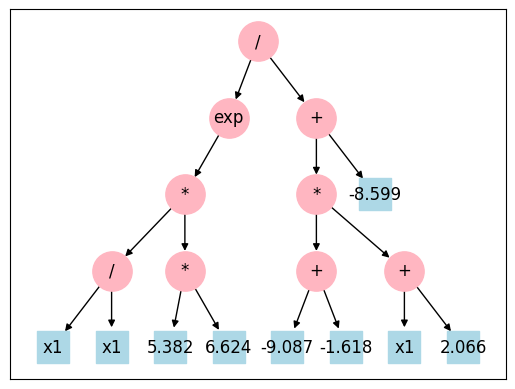
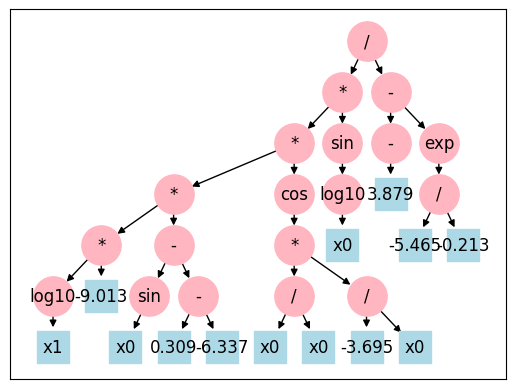
final commit

diff --git a/s333106.py b/s333106.py
@@ -1,30 +1,92 @@
 import numpy as np
+import math
 
-def f0(x: np.ndarray) -> np.ndarray:
-    return x[0] + np.sin(x[1]) / 5
+def protected_exp(x):
+    # Overflow condition
+    if x > 700:
+        return math.exp(700)  
+    # Underflow condition
+    elif x < -700:
+        return math.exp(-700)
+    else:
+        return math.exp(x)
 
+def protected_div(a, b):
+    if abs(b) < 1e-12:
+        return 1.0
+    return a / b
+
+def protected_sqrt(x):
+    if x < 0:
+        return np.sqrt(abs(x))
+    return np.sqrt(x)
+
+def protected_log10(x):
+    if x <= 0:
+        return 0.0
+    return np.log10(x)
 
 def f1(x: np.ndarray) -> np.ndarray:
     return np.sin(x[0])
 
 def f2(x: np.ndarray) -> np.ndarray:
-    (np.exp(9.823) * np.exp((-5.612 / x[0])))
+    return (
+        (
+            protected_exp((x[0] * 4.865) * protected_exp(x[1])) * protected_div((-1.527 - 9.650) * (x[2] + x[1]), x[2]) * np.abs(5.823 + x[0])
+        ) -
+        (protected_div((x[2] - (-2.865)),(-9.485 + 5.293)))
+    )
 
+def f3(x: np.ndarray) -> np.ndarray:
+    return (
+        (x[0] * x[0]) + 
+        (x[2] * -4.816) + 
+        (x[2] - (-3.753)) + 
+        (x[0] * x[0]) + 
+        (protected_log10((2.369 + x[1]) - x[1]) + (x[1] * x[1] * -x[1]))
+    )
 
-def f3(x: np.ndarray) -> np.ndarray: ...
+def f4(x: np.ndarray) -> np.ndarray: 
+    return (
+        (np.cos(x[1]) * 6.830) + 
+        protected_sqrt(protected_sqrt((-9.009 + x[0]) + np.abs(x[1]))) + 
+        protected_sqrt(protected_sqrt(-8.538))
+    )
 
+def f5(x: np.ndarray) -> np.ndarray:
+    return (
+        protected_div((
+            (protected_log10(x[1]) * -9.013) * 
+            ((0.309 - (-6.337)) - np.sin(x[0])) * 
+            np.cos(protected_div(x[0],x[0]) * protected_div(-3.695,x[0]))
+        ), (protected_exp(protected_div(-5.465,-0.213)) - (-3.879)))
+    )
 
-def f4(x: np.ndarray) -> np.ndarray: ...
+def f6(x: np.ndarray) -> np.ndarray:
+    return (
+        ((1.396 * x[1]) + protected_div(x[0],-1.418) - protected_div(x[1],-3.781)) -
+        (
+            protected_exp(-9.845) * (6.017 - x[0]) * 
+            ((x[1] - x[0]) * ((-4.666 + x[0]) + (3.425 * -1.858))) * 
+            (8.596 - x[0])
+        )
+    )
 
+def f7(x: np.ndarray) -> np.ndarray:
+    return (
+        (np.abs(4.439) * protected_exp(x[1] * x[0])) + 
+        (
+            ((np.abs(x[0]) * np.abs(x[1])) + (np.abs(x[0]) * np.sin(x[1]))) *
+            np.cos((x[1] - x[0]) * (x[0] + -7.844)) *
+            protected_exp(x[1] * x[0])
+        )
+    )
 
-def f5(x: np.ndarray) -> np.ndarray: ...
-
-
-def f6(x: np.ndarray) -> np.ndarray: ...
-
-
-def f7(x: np.ndarray) -> np.ndarray: ...
-
-
-def f8(x: np.ndarray) -> np.ndarray: ...
-
+def f8(x: np.ndarray) -> np.ndarray:
+    return (
+        np.abs(
+            x[5] * 
+            (9.915 * x[5]) * 
+            (protected_div(x[4],x[4]) * (x[5] + x[5]))
+        ) * x[5]
+    )

diff --git a/report.md b/report.md
@@ -479,14 +479,14 @@ The `enforce_max_depth(node, max_depth, current_depth)` function limits the maxi
 ### Genetic Programming Algorithm
 
 The function `run_genetic_programming(x, y, population_size, generations, elite_size, max_depth)` implements a Genetic Programming (GP) algorithm to find the best symbolic expression that approximates the data (`x, y`). The process occurs in the following phases, repeated for a number equal to the variable `generations`:
-1- Initialization of the population with the Ramped Half-and-Half method, which creates half of the population with trees of depth 2 and half of the population with trees of depth 4;
-2- calculation of the fitness function for each tree and sorting (`fitness(individual, x, y)`);
-3- selection of the best individuals (in a number defined by elite_size) and saving the best tree of the generation in hall_of_fame, which keeps track of the best trees of each generation;
-4- selection of k random parents and the two individuals with the lowest MSE are chosen (`tournament_selection(population, x, y, k)`);
-5- crossover between the two parents (`crossover(parent1, parent2)`);
-6- mutation of the individual (`mutate(individual, mutation_rate)`);
-7- depth control (`enforce_max_depth(node, max_depth, current_depth)`);
-8- adding the generated offspring to the initial population;
+- 1.Initialization of the population with the Ramped Half-and-Half method, which creates half of the population with trees of depth 2 and half of the population with trees of depth 4;
+- 2.calculation of the fitness function for each tree and sorting (`fitness(individual, x, y)`);
+- 3.selection of the best individuals (in a number defined by elite_size) and saving the best tree of the generation in hall_of_fame, which keeps track of the best trees of each generation;
+- 4.selection of k random parents and the two individuals with the lowest MSE are chosen (`tournament_selection(population, x, y, k)`);
+- 5.crossover between the two parents (`crossover(parent1, parent2)`);
+- 6.mutation of the individual (`mutate(individual, mutation_rate)`);
+- 7.depth control (`enforce_max_depth(node, max_depth, current_depth)`);
+- 8.adding the generated offspring to the initial population;
 
 ![lab4_12](report_images/lab4_12.png)
 
@@ -632,7 +632,7 @@ MSE = 839853.2588713064
 
 #### Problem 1 Test:
 
-MSE = 0.00000
+MSE = 7.125940794232773e-34
 
 Best expression found = sin(x0)
 
@@ -664,11 +664,11 @@ MSE = 0.01973
 
 #### Problem 5 Test:
 
-Best expression found = ((-8.599 + ((-9.087 + -1.618) * (x1 + 2.066))) / exp(((x1 / x1) * (5.382 * 6.624))))
+Best expression found = (((((log10(x1) * -9.013) * ((0.309 - -6.337) - sin(x0))) * cos(((x0 / x0) * (-3.695 / x0)))) * sin(log10(x0))) / (exp((-5.465 / -0.213)) - -(3.879)))
+
+MSE = 5.417638189152223e-18
 
 ![Test 5 Pop 10000 Gen 100 Depth 6](report_images/test5_pop10000_gen100_depth6_1.png)
-
-MSE = 0.00000
 
 #### Problem 6 Test:
 
@@ -694,15 +694,35 @@ MSE = 1272443.2040473882
 
 ![Test 8 Pop 10000 Gen 100 Depth 6](report_images/test8_pop10000_gen100_depth6.png)
 
+### Expressions found
+
+![Expression found 1](report_images/lab4_15.png)
+
+![Expression found 2](report_images/lab4_16.png)
+
 ### Final Result Summary
 
 | Problem | Best_MSE | Expression Found |
 |---------|----------|------------------|
-| 1       | 0.00000 | sin(x0) |
+| 1       | 7.125940794232773e-34 | sin(x0) |
 | 2       | 10000000000.00000 | (((exp(((x0 * 4.865) * exp(x1))) * (((-1.527 + -9.650) * (x2 + x1)) / x2)) * abs((5.823 + x0))) - ((x2 - -2.865) / (-9.485 + 5.293))) |
 | 3       | 0.82978 | ((((x0 * x0) + (x2 * -4.816)) + (x2 - -3.753)) + ((x0 * x0) + (log10(((2.369 + x1) + -(x1))) + ((x1 * x1) * -(x1))))) |
 | 4       | 0.01973 | (((cos(x1) * 6.830) + sqrt(sqrt(((-9.009 + x0) + abs(x1))))) + sqrt(sqrt(-8.538))) |
-| 5       | 0.00000 | ((-8.599 + ((-9.087 + -1.618) * (x1 + 2.066))) / exp(((x1 / x1) * (5.382 * 6.624)))) |
+| 5       |5.417638189152223e-18 | (((((log10(x1) * -9.013) * ((0.309 - -6.337) - sin(x0))) * cos(((x0 / x0) * (-3.695 / x0)))) * sin(log10(x0))) / (exp((-5.465 / -0.213)) - -(3.879))) |
 | 6       | 0.00274 | ((((1.396 * x1) + (x0 / -1.418)) - (x1 / -3.781)) - ((exp(-9.845) * (6.017 - x0)) * (((x1 - x0) * ((-4.666 + x0) + (3.425 * -1.858))) * (8.596 - x0)))) |
 | 7       | 255.77055328942862 | ((abs(4.439) * exp((x1 * x0))) + ((((abs(x0) * abs(x1)) + (abs(x0) * sin(x1))) * cos(((x1 - x0) * (x0 + -7.844)))) * exp((x1 * x0)))) |
 | 8       | 1272443.2040473882 | (abs((x5 * ((9.915 * x5) * ((x4 / x4) * (x5 + x5))))) * x5) |
+
+
+
+
+
+
+
+
+
+
+
+
+
+
